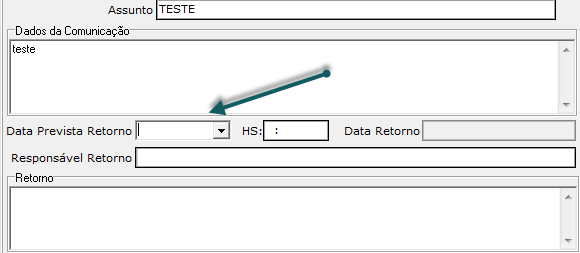
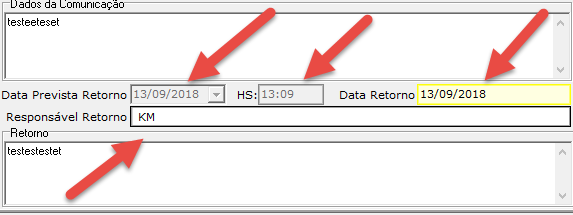
comunicacaocomcliente

Changed region(s): [[0.0, 0.0, 1.0, 1.0]]

diff --git a/docs/modulos/comercial/movimentos/comunicacao-com-clientes.md b/docs/modulos/comercial/movimentos/comunicacao-com-clientes.md
@@ -17,7 +17,7 @@ Vai clicar no botão ![Insere](/img/botoeskm/insere.png)
 Vai escolher um Tipo de Comunicação  
 ![7](/img/comunicacao-com-clientes/7.png)
 
-Após adicionar o Assunto e os Dados da Comunicação, vai escolher a data do retorno se tiver, se não tiver vai colocar a data que encerrou a comunicação.  
+Após adicionar o Assunto e os Dados da Comunicação, vai escolher a data prevista retorno, Hora, e Responsável Retorno, caso seja somente uma comunicação, você pode colocar seu usuário como responsável retorno e preencher a data de retorno!.  
 ![8](/img/comunicacao-com-clientes/8.png)
 
-Inserido a Comunicação com o Cliente.
+Feito a Comunicação com o Cliente.
